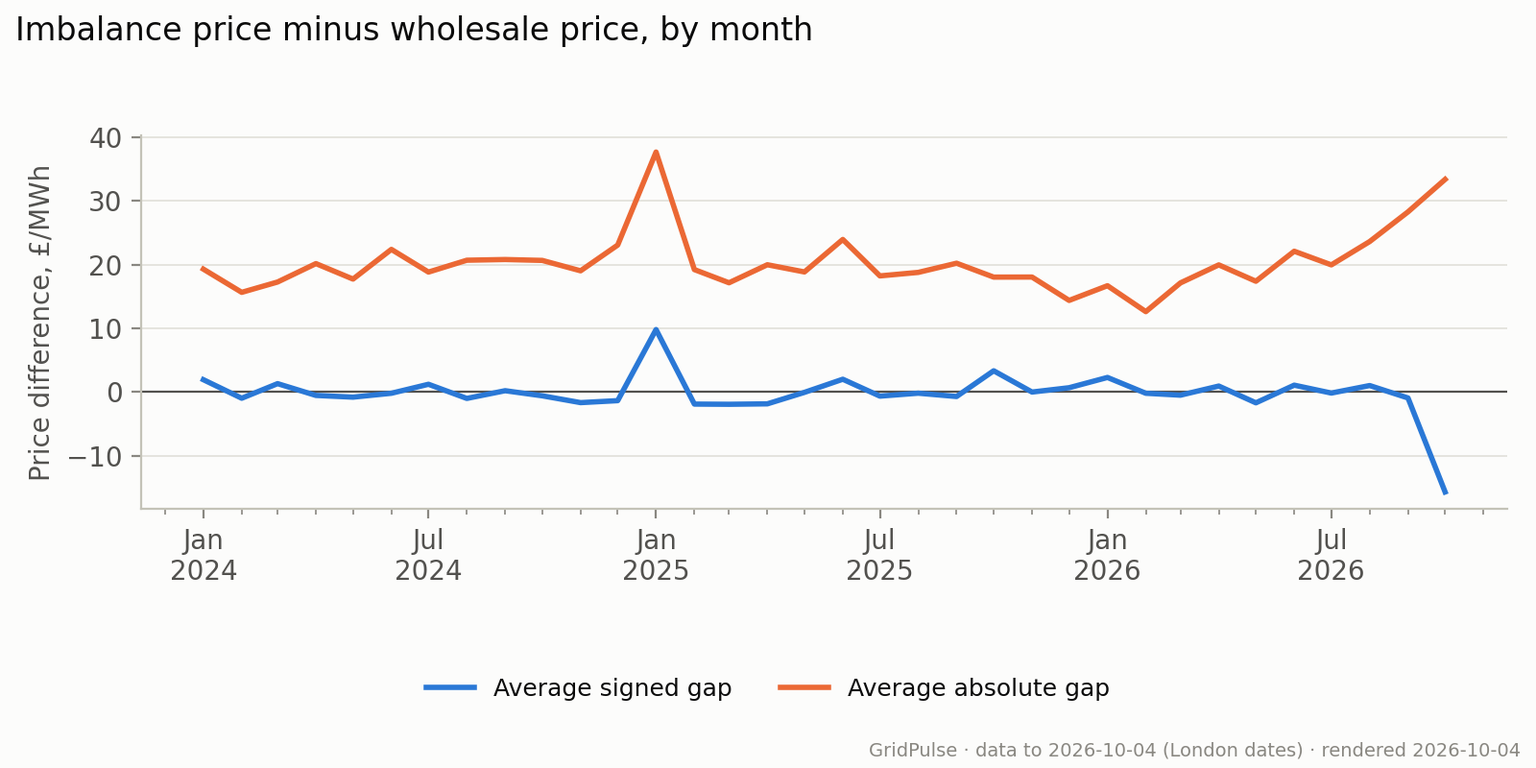
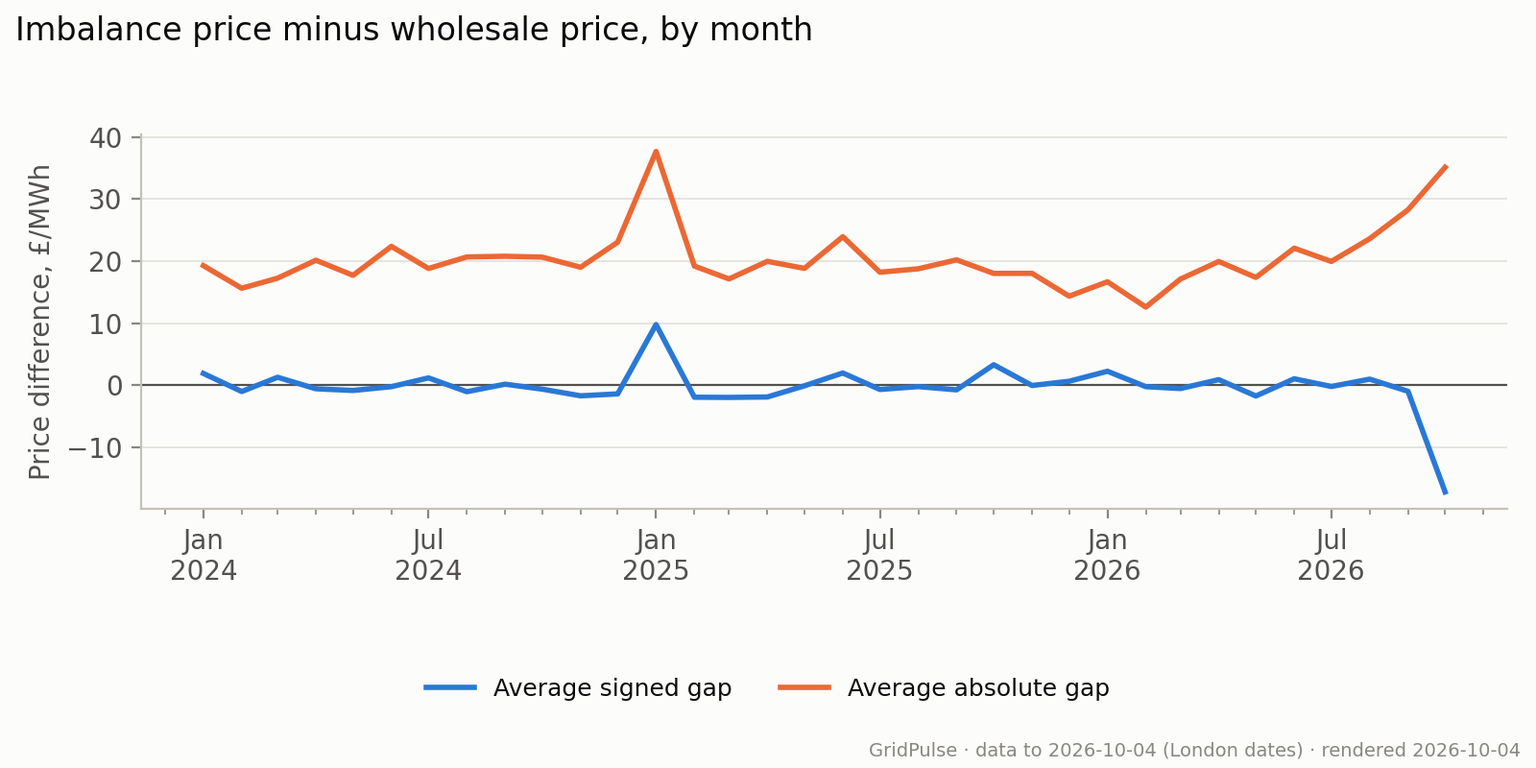
Rebuild from data to 2026-10-04, built 2026-10-04 08:50 UTC

diff --git a/index.html b/index.html
@@ -59,7 +59,7 @@ how electricity flows across borders, and how accurately demand is forecast.</p>
 <section class="overview" aria-labelledby="key-findings">
 <h2 id="key-findings">Key findings · 4 October 2026</h2>
 <ul><li><a href="#daily_pattern">Average Carbon Intensity and Wholesale Price by Half Hour</a><p>Across the half-hourly averages, carbon intensity is lowest at 13:00 (108 gCO₂/kWh), while the APX wholesale price is lowest at 03:30 (£68.76/MWh). These are historical averages, not a prediction for any individual day.</p></li>
-<li><a href="#negative_frequency">Negative Wholesale Price Frequency</a><p>1,325 of 48,306 half hours with a recorded APX wholesale price since 2024 had a negative price (2.7%), peaking at 9.5% in August 2024.</p></li>
+<li><a href="#negative_frequency">Negative Wholesale Price Frequency</a><p>1,325 of 48,310 half hours with a recorded APX wholesale price since 2024 had a negative price (2.7%), peaking at 9.5% in August 2024.</p></li>
 <li><a href="#demand_accuracy">Average Demand Forecast Error by Hours Ahead</a><p>Elexon&#x27;s national demand forecast is off by an average of 506 MW 0.5 hours ahead and 655 MW 21 hours ahead, scored on the same 35,898 half hours at each forecast timing. Smaller errors indicate greater accuracy.</p></li></ul>
 </section>
 <details class="contents" open><summary>Explore 14 analyses by topic</summary>
@@ -68,12 +68,12 @@ how electricity flows across borders, and how accurately demand is forecast.</p>
 <div><a href="#prices"><strong>Prices and grid conditions</strong></a><ul><li><a href="#negative_frequency">Negative Wholesale Price Frequency</a></li><li><a href="#negative_conditions">Grid Conditions During Negative Prices</a></li><li><a href="#imbalance_spread">Imbalance and Wholesale Price Gap</a></li><li><a href="#imbalance_conditions">Imbalance Prices by Grid Conditions</a></li></ul></div>
 <div><a href="#forecast-accuracy"><strong>Forecast accuracy</strong></a><ul><li><a href="#demand_accuracy">Average Demand Forecast Error by Hours Ahead</a></li><li><a href="#carbon_accuracy">Carbon Forecast Error by Month</a></li></ul></div>
 <div><a href="#data-quality"><strong>Data quality</strong></a><ul><li><a href="#coverage">Monthly Data Coverage</a></li><li><a href="#publication_coverage">Demand Forecast Publication Coverage</a></li></ul></div></nav></details>
-<p class="banner" id="built" data-built="2026-10-04T02:50:15Z" data-ingested="2026-10-04T02:00:27Z">
-Analysis built 2026-10-04 02:50 UTC. Each chart uses its stated window;
+<p class="banner" id="built" data-built="2026-10-04T08:50:19Z" data-ingested="2026-10-04T08:00:31Z">
+Analysis built 2026-10-04 08:50 UTC. Each chart uses its stated window;
 current-month results are provisional. Scheduled refresh: every 6 hours.</p>
 <details class="provenance"><summary>Data dates and source code</summary>
 <p class="meta">National carbon actuals: data to 2026-10-04 (London dates).
-Most recent ingestion across sources: 2026-10-04 02:00 UTC.
+Most recent ingestion across sources: 2026-10-04 08:00 UTC.
 These timestamps do not establish completeness or freshness for every source.
 “As of” refers to the build date. Select a chart to view it full size.</p>
 <a href="https://github.com/thrkld/gridpulse">Python, SQL and dbt project on GitHub</a></details>
@@ -90,7 +90,7 @@ These timestamps do not establish completeness or freshness for every source.
 <h4>Limitations</h4>
 <p class="caveat">Averages combine seasons and years and do not measure daily coincidence of the cheapest and lowest-carbon periods. APX is a wholesale index, not a household tariff.</p>
 <details><summary>How to read this graph and methodology</summary><p>Each point averages the same London half-hour start time since January 2024, using matched carbon and price observations and excluding today and clock-change days. The upper panel measures grams of CO₂ per kilowatt-hour; lower values mean less carbon per unit of electricity. The lower panel measures the APX wholesale index in pounds per megawatt-hour. Markers identify a minimum in each profile. The panels use different vertical scales, so compare the timing of their peaks and troughs, not their heights.</p></details>
-<details><summary>Numbers behind the chart</summary><div class="table-scroll" tabindex="0" role="region" aria-label="Data for Average Carbon Intensity and Wholesale Price by Half Hour"><table><thead><tr><th>Local time</th><th>Carbon intensity gCO2/kWh</th><th>Market price GBP/MWh</th><th>Matched periods</th></tr></thead><tbody><tr><td>00:00</td><td>115.7</td><td>76.2</td><td>999</td></tr><tr><td>00:30</td><td>114.2</td><td>76.48</td><td>999</td></tr><tr><td>01:00</td><td>113.1</td><td>74.59</td><td>1000</td></tr><tr><td>01:30</td><td>112.5</td><td>73.07</td><td>1000</td></tr><tr><td>02:00</td><td>111.2</td><td>72.47</td><td>1000</td></tr><tr><td>02:30</td><td>110.9</td><td>70.6</td><td>1001</td></tr><tr><td>03:00</td><td>110.3</td><td>70.15</td><td>1000</td></tr><tr><td>03:30</td><td>111.7</td><td>68.76</td><td>1000</td></tr><tr><td>04:00</td><td>112.2</td><td>70.36</td><td>1000</td></tr><tr><td>04:30</td><td>116.7</td><td>69.48</td><td>1000</td></tr><tr><td>05:00</td><td>121.1</td><td>75.34</td><td>1000</td></tr><tr><td>05:30</td><td>128.8</td><td>76.59</td><td>1000</td></tr><tr><td>06:00</td><td>135.6</td><td>81.43</td><td>1001</td></tr><tr><td>06:30</td><td>137.9</td><td>87.46</td><td>1001</td></tr><tr><td>07:00</td><td>139</td><td>88.18</td><td>1001</td></tr><tr><td>07:30</td><td>136.2</td><td>94.25</td><td>1001</td></tr><tr><td>08:00</td><td>133.6</td><td>89.22</td><td>1000</td></tr><tr><td>08:30</td><td>129.5</td><td>90.21</td><td>1001</td></tr><tr><td>09:00</td><td>124.9</td><td>85.25</td><td>1000</td></tr><tr><td>09:30</td><td>120.6</td><td>82.98</td><td>1000</td></tr><tr><td>10:00</td><td>116.4</td><td>81.16</td><td>1001</td></tr><tr><td>10:30</td><td>113.4</td><td>78.99</td><td>1001</td></tr><tr><td>11:00</td><td>111</td><td>74.38</td><td>999</td></tr><tr><td>11:30</td><td>109.4</td><td>73.18</td><td>1000</td></tr><tr><td>12:00</td><td>108.1</td><td>72.87</td><td>1001</td></tr><tr><td>12:30</td><td>108</td><td>71.88</td><td>1001</td></tr><tr><td>13:00</td><td>107.8</td><td>71.61</td><td>1000</td></tr><tr><td>13:30</td><td>109</td><td>70.12</td><td>1001</td></tr><tr><td>14:00</td><td>111</td><td>71.2</td><td>1001</td></tr><tr><td>14:30</td><td>113.8</td><td>70.88</td><td>1001</td></tr><tr><td>15:00</td><td>118.6</td><td>76.63</td><td>1001</td></tr><tr><td>15:30</td><td>124.3</td><td>79.47</td><td>1002</td></tr><tr><td>16:00</td><td>131.7</td><td>84.08</td><td>1002</td></tr><tr><td>16:30</td><td>139.3</td><td>90.41</td><td>1002</td></tr><tr><td>17:00</td><td>145.2</td><td>100.62</td><td>1002</td></tr><tr><td>17:30</td><td>150.2</td><td>104.2</td><td>1002</td></tr><tr><td>18:00</td><td>153.4</td><td>108.2</td><td>1002</td></tr><tr><td>18:30</td><td>155.5</td><td>109.31</td><td>1002</td></tr><tr><td>19:00</td><td>156.2</td><td>107.58</td><td>1002</td></tr><tr><td>19:30</td><td>155.8</td><td>105.72</td><td>1002</td></tr><tr><td>20:00</td><td>153.5</td><td>103.23</td><td>1002</td></tr><tr><td>20:30</td><td>150.6</td><td>100.12</td><td>1002</td></tr><tr><td>21:00</td><td>145.3</td><td>96.74</td><td>1002</td></tr><tr><td>21:30</td><td>140.2</td><td>92.02</td><td>1002</td></tr><tr><td>22:00</td><td>132.6</td><td>89.95</td><td>1001</td></tr><tr><td>22:30</td><td>122.8</td><td>84.55</td><td>1001</td></tr><tr><td>23:00</td><td>117.6</td><td>80.05</td><td>999</td></tr><tr><td>23:30</td><td>116.2</td><td>77.55</td><td>999</td></tr></tbody></table></div></details>
+<details><summary>Numbers behind the chart</summary><div class="table-scroll" tabindex="0" role="region" aria-label="Data for Average Carbon Intensity and Wholesale Price by Half Hour"><table><thead><tr><th>Local time</th><th>Carbon intensity gCO2/kWh</th><th>Market price GBP/MWh</th><th>Matched periods</th></tr></thead><tbody><tr><td>00:00</td><td>115.7</td><td>76.2</td><td>999</td></tr><tr><td>00:30</td><td>114.2</td><td>76.48</td><td>999</td></tr><tr><td>01:00</td><td>113.1</td><td>74.59</td><td>1000</td></tr><tr><td>01:30</td><td>112.5</td><td>73.07</td><td>1000</td></tr><tr><td>02:00</td><td>111.2</td><td>72.47</td><td>1000</td></tr><tr><td>02:30</td><td>110.9</td><td>70.6</td><td>1001</td></tr><tr><td>03:00</td><td>110.3</td><td>70.15</td><td>1000</td></tr><tr><td>03:30</td><td>111.7</td><td>68.76</td><td>1000</td></tr><tr><td>04:00</td><td>112.2</td><td>70.36</td><td>1000</td></tr><tr><td>04:30</td><td>116.7</td><td>69.48</td><td>1000</td></tr><tr><td>05:00</td><td>121.1</td><td>75.34</td><td>1000</td></tr><tr><td>05:30</td><td>128.8</td><td>76.59</td><td>1000</td></tr><tr><td>06:00</td><td>135.6</td><td>81.43</td><td>1001</td></tr><tr><td>06:30</td><td>137.9</td><td>87.46</td><td>1001</td></tr><tr><td>07:00</td><td>139</td><td>88.18</td><td>1001</td></tr><tr><td>07:30</td><td>136.2</td><td>94.25</td><td>1001</td></tr><tr><td>08:00</td><td>133.6</td><td>89.22</td><td>1000</td></tr><tr><td>08:30</td><td>129.5</td><td>90.21</td><td>1001</td></tr><tr><td>09:00</td><td>124.9</td><td>85.25</td><td>1000</td></tr><tr><td>09:30</td><td>120.6</td><td>82.98</td><td>1000</td></tr><tr><td>10:00</td><td>116.4</td><td>81.16</td><td>1001</td></tr><tr><td>10:30</td><td>113.4</td><td>78.99</td><td>1001</td></tr><tr><td>11:00</td><td>111</td><td>74.38</td><td>999</td></tr><tr><td>11:30</td><td>109.4</td><td>73.18</td><td>1000</td></tr><tr><td>12:00</td><td>108.1</td><td>72.87</td><td>1001</td></tr><tr><td>12:30</td><td>108</td><td>71.88</td><td>1001</td></tr><tr><td>13:00</td><td>107.8</td><td>71.61</td><td>1000</td></tr><tr><td>13:30</td><td>109</td><td>70.12</td><td>1001</td></tr><tr><td>14:00</td><td>111</td><td>71.2</td><td>1001</td></tr><tr><td>14:30</td><td>113.8</td><td>70.88</td><td>1001</td></tr><tr><td>15:00</td><td>118.6</td><td>76.63</td><td>1001</td></tr><tr><td>15:30</td><td>124.3</td><td>79.47</td><td>1002</td></tr><tr><td>16:00</td><td>131.7</td><td>84.08</td><td>1002</td></tr><tr><td>16:30</td><td>139.3</td><td>90.41</td><td>1002</td></tr><tr><td>17:00</td><td>145.2</td><td>100.62</td><td>1002</td></tr><tr><td>17:30</td><td>150.2</td><td>104.2</td><td>1002</td></tr><tr><td>18:00</td><td>153.4</td><td>108.2</td><td>1002</td></tr><tr><td>18:30</td><td>155.5</td><td>109.31</td><td>1002</td></tr><tr><td>19:00</td><td>156.2</td><td>107.58</td><td>1002</td></tr><tr><td>19:30</td><td>155.8</td><td>105.72</td><td>1002</td></tr><tr><td>20:00</td><td>153.5</td><td>103.23</td><td>1002</td></tr><tr><td>20:30</td><td>150.6</td><td>100.12</td><td>1002</td></tr><tr><td>21:00</td><td>145.3</td><td>96.74</td><td>1002</td></tr><tr><td>21:30</td><td>140.2</td><td>92.02</td><td>1002</td></tr><tr><td>22:00</td><td>132.7</td><td>90.03</td><td>1002</td></tr><tr><td>22:30</td><td>122.9</td><td>84.62</td><td>1002</td></tr><tr><td>23:00</td><td>117.7</td><td>80.13</td><td>1000</td></tr><tr><td>23:30</td><td>116.3</td><td>77.64</td><td>1000</td></tr></tbody></table></div></details>
 </section>
 <section class="chart" id="daily_minima">
 <h3 class="chart-title">Overlap of Cheap and Low-Carbon Periods</h3>
@@ -98,14 +98,14 @@ These timestamps do not establish completeness or freshness for every source.
 <p>The bar takes each day&#x27;s cheapest six hours (12 half-hour periods, not necessarily consecutive) and splits them into those that also fall in its lowest-carbon quarter and those that do not.</p>
 <div class="finding">
 <h4>Findings (as of 4 October 2026)</h4>
-<p>On average, 60.9% of each day&#x27;s cheapest quarter of half hours also belonged to its lowest-carbon quarter, across 991 complete days since 2024.</p>
+<p>On average, 60.9% of each day&#x27;s cheapest quarter of half hours also belonged to its lowest-carbon quarter, across 992 complete days since 2024.</p>
 </div>
 <a href="charts/daily_minima.png" aria-label="View full-size chart: Overlap of Cheap and Low-Carbon Periods"><img src="charts/daily_minima.png" alt="Overlap of Cheap and Low-Carbon Periods"></a>
 <p class="meta"><a href="charts/daily_minima.png">Open full-size chart</a></p>
 <h4>Limitations</h4>
 <p class="caveat">This describes historical overlap, not a schedule for future cheap or low-carbon electricity. Wholesale prices are not household tariffs.</p>
 <details><summary>How to read this graph and methodology</summary><p>Each complete 48-period day since January 2024 contributes equally. The cheapest quarter and lowest-carbon quarter each contain 12 half hours, equivalent to six hours but not necessarily consecutive. Ties at the cutoff share weight equally. Green shows the average overlap; grey shows the remainder. Days with missing prices or carbon observations and clock-change days are excluded. This answers a day-by-day question that the average daily profiles cannot answer.</p></details>
-<details><summary>Numbers behind the chart</summary><div class="table-scroll" tabindex="0" role="region" aria-label="Data for Overlap of Cheap and Low-Carbon Periods"><table><thead><tr><th>Periods</th><th>Also greenest %</th><th>Outside greenest %</th><th>Complete days</th></tr></thead><tbody><tr><td>Cheapest quarter</td><td>60.9</td><td>39.1</td><td>991</td></tr></tbody></table></div></details>
+<details><summary>Numbers behind the chart</summary><div class="table-scroll" tabindex="0" role="region" aria-label="Data for Overlap of Cheap and Low-Carbon Periods"><table><thead><tr><th>Periods</th><th>Also greenest %</th><th>Outside greenest %</th><th>Complete days</th></tr></thead><tbody><tr><td>Cheapest quarter</td><td>60.9</td><td>39.1</td><td>992</td></tr></tbody></table></div></details>
 </section>
 <h2 class="topic-heading" id="supply-trade">Electricity supply and trade</h2><section class="chart" id="solar">
 <h3 class="chart-title">Midday National Demand and Embedded Solar</h3>
@@ -173,14 +173,14 @@ These timestamps do not establish completeness or freshness for every source.
 <p>Each bar shows the percentage of priced half hours in a month when the APX wholesale electricity price was below £0/MWh. This measures how often negative prices occurred, not how far prices fell.</p>
 <div class="finding">
 <h4>Findings (as of 4 October 2026)</h4>
-<p>1,325 of 48,306 half hours with a recorded APX wholesale price since 2024 had a negative price (2.7%), peaking at 9.5% in August 2024.</p>
+<p>1,325 of 48,310 half hours with a recorded APX wholesale price since 2024 had a negative price (2.7%), peaking at 9.5% in August 2024.</p>
 </div>
 <a href="charts/negative_frequency.png" aria-label="View full-size chart: Negative Wholesale Price Frequency"><img src="charts/negative_frequency.png" alt="Negative Wholesale Price Frequency"></a>
 <p class="meta"><a href="charts/negative_frequency.png">Open full-size chart</a></p>
 <h4>Limitations</h4>
 <p class="caveat">Missing prices are excluded, not treated as zero or non-negative. The current month is partial. Negative wholesale prices do not imply negative household bills.</p>
 <details><summary>How to read this graph and methodology</summary><p>For each month since January 2024, the number of negative-price half hours is divided by the number with a recorded price and multiplied by 100. A 5% bar means one in twenty priced half hours was negative. A recorded price of zero is included in the denominator but is not negative. The overall finding uses the combined counts across months, rather than averaging the bars. The tallest bar identifies the highest monthly frequency; a light-blue bar marks the current, incomplete month.</p></details>
-<details><summary>Numbers behind the chart</summary><div class="table-scroll" tabindex="0" role="region" aria-label="Data for Negative Wholesale Price Frequency"><table><thead><tr><th>Month</th><th>Negative periods</th><th>Priced periods</th><th>Unpriced periods</th><th>Negative price %</th></tr></thead><tbody><tr><td>2024-01-01</td><td>11</td><td>1488</td><td>0</td><td>0.74</td></tr><tr><td>2024-02-01</td><td>13</td><td>1392</td><td>0</td><td>0.93</td></tr><tr><td>2024-03-01</td><td>37</td><td>1486</td><td>0</td><td>2.49</td></tr><tr><td>2024-04-01</td><td>117</td><td>1439</td><td>1</td><td>8.13</td></tr><tr><td>2024-05-01</td><td>15</td><td>1488</td><td>0</td><td>1.01</td></tr><tr><td>2024-06-01</td><td>59</td><td>1440</td><td>0</td><td>4.1</td></tr><tr><td>2024-07-01</td><td>21</td><td>1488</td><td>0</td><td>1.41</td></tr><tr><td>2024-08-01</td><td>141</td><td>1488</td><td>0</td><td>9.48</td></tr><tr><td>2024-09-01</td><td>36</td><td>1440</td><td>0</td><td>2.5</td></tr><tr><td>2024-10-01</td><td>17</td><td>1490</td><td>0</td><td>1.14</td></tr><tr><td>2024-11-01</td><td>5</td><td>1440</td><td>0</td><td>0.35</td></tr><tr><td>2024-12-01</td><td>23</td><td>1488</td><td>0</td><td>1.55</td></tr><tr><td>2025-01-01</td><td>6</td><td>1488</td><td>0</td><td>0.4</td></tr><tr><td>2025-02-01</td><td>0</td><td>1344</td><td>0</td><td>0</td></tr><tr><td>2025-03-01</td><td>25</td><td>1486</td><td>0</td><td>1.68</td></tr><tr><td>2025-04-01</td><td>49</td><td>1440</td><td>0</td><td>3.4</td></tr><tr><td>2025-05-01</td><td>73</td><td>1488</td><td>0</td><td>4.91</td></tr><tr><td>2025-06-01</td><td>114</td><td>1430</td><td>10</td><td>7.97</td></tr><tr><td>2025-07-01</td><td>25</td><td>1488</td><td>0</td><td>1.68</td></tr><tr><td>2025-08-01</td><td>64</td><td>1488</td><td>0</td><td>4.3</td></tr><tr><td>2025-09-01</td><td>102</td><td>1439</td><td>1</td><td>7.09</td></tr><tr><td>2025-10-01</td><td>29</td><td>1490</td><td>0</td><td>1.95</td></tr><tr><td>2025-11-01</td><td>0</td><td>1440</td><td>0</td><td>0</td></tr><tr><td>2025-12-01</td><td>1</td><td>1488</td><td>0</td><td>0.07</td></tr><tr><td>2026-01-01</td><td>0</td><td>1488</td><td>0</td><td>0</td></tr><tr><td>2026-02-01</td><td>4</td><td>1344</td><td>0</td><td>0.3</td></tr><tr><td>2026-03-01</td><td>39</td><td>1486</td><td>0</td><td>2.62</td></tr><tr><td>2026-04-01</td><td>80</td><td>1440</td><td>0</td><td>5.56</td></tr><tr><td>2026-05-01</td><td>0</td><td>1486</td><td>2</td><td>0</td></tr><tr><td>2026-06-01</td><td>64</td><td>1440</td><td>0</td><td>4.44</td></tr><tr><td>2026-07-01</td><td>76</td><td>1482</td><td>6</td><td>5.13</td></tr><tr><td>2026-08-01</td><td>10</td><td>1488</td><td>0</td><td>0.67</td></tr><tr><td>2026-09-01</td><td>69</td><td>1436</td><td>4</td><td>4.81</td></tr><tr><td>2026-10-01</td><td>0</td><td>140</td><td>4</td><td>0</td></tr></tbody></table></div></details>
+<details><summary>Numbers behind the chart</summary><div class="table-scroll" tabindex="0" role="region" aria-label="Data for Negative Wholesale Price Frequency"><table><thead><tr><th>Month</th><th>Negative periods</th><th>Priced periods</th><th>Unpriced periods</th><th>Negative price %</th></tr></thead><tbody><tr><td>2024-01-01</td><td>11</td><td>1488</td><td>0</td><td>0.74</td></tr><tr><td>2024-02-01</td><td>13</td><td>1392</td><td>0</td><td>0.93</td></tr><tr><td>2024-03-01</td><td>37</td><td>1486</td><td>0</td><td>2.49</td></tr><tr><td>2024-04-01</td><td>117</td><td>1439</td><td>1</td><td>8.13</td></tr><tr><td>2024-05-01</td><td>15</td><td>1488</td><td>0</td><td>1.01</td></tr><tr><td>2024-06-01</td><td>59</td><td>1440</td><td>0</td><td>4.1</td></tr><tr><td>2024-07-01</td><td>21</td><td>1488</td><td>0</td><td>1.41</td></tr><tr><td>2024-08-01</td><td>141</td><td>1488</td><td>0</td><td>9.48</td></tr><tr><td>2024-09-01</td><td>36</td><td>1440</td><td>0</td><td>2.5</td></tr><tr><td>2024-10-01</td><td>17</td><td>1490</td><td>0</td><td>1.14</td></tr><tr><td>2024-11-01</td><td>5</td><td>1440</td><td>0</td><td>0.35</td></tr><tr><td>2024-12-01</td><td>23</td><td>1488</td><td>0</td><td>1.55</td></tr><tr><td>2025-01-01</td><td>6</td><td>1488</td><td>0</td><td>0.4</td></tr><tr><td>2025-02-01</td><td>0</td><td>1344</td><td>0</td><td>0</td></tr><tr><td>2025-03-01</td><td>25</td><td>1486</td><td>0</td><td>1.68</td></tr><tr><td>2025-04-01</td><td>49</td><td>1440</td><td>0</td><td>3.4</td></tr><tr><td>2025-05-01</td><td>73</td><td>1488</td><td>0</td><td>4.91</td></tr><tr><td>2025-06-01</td><td>114</td><td>1430</td><td>10</td><td>7.97</td></tr><tr><td>2025-07-01</td><td>25</td><td>1488</td><td>0</td><td>1.68</td></tr><tr><td>2025-08-01</td><td>64</td><td>1488</td><td>0</td><td>4.3</td></tr><tr><td>2025-09-01</td><td>102</td><td>1439</td><td>1</td><td>7.09</td></tr><tr><td>2025-10-01</td><td>29</td><td>1490</td><td>0</td><td>1.95</td></tr><tr><td>2025-11-01</td><td>0</td><td>1440</td><td>0</td><td>0</td></tr><tr><td>2025-12-01</td><td>1</td><td>1488</td><td>0</td><td>0.07</td></tr><tr><td>2026-01-01</td><td>0</td><td>1488</td><td>0</td><td>0</td></tr><tr><td>2026-02-01</td><td>4</td><td>1344</td><td>0</td><td>0.3</td></tr><tr><td>2026-03-01</td><td>39</td><td>1486</td><td>0</td><td>2.62</td></tr><tr><td>2026-04-01</td><td>80</td><td>1440</td><td>0</td><td>5.56</td></tr><tr><td>2026-05-01</td><td>0</td><td>1486</td><td>2</td><td>0</td></tr><tr><td>2026-06-01</td><td>64</td><td>1440</td><td>0</td><td>4.44</td></tr><tr><td>2026-07-01</td><td>76</td><td>1482</td><td>6</td><td>5.13</td></tr><tr><td>2026-08-01</td><td>10</td><td>1488</td><td>0</td><td>0.67</td></tr><tr><td>2026-09-01</td><td>69</td><td>1436</td><td>4</td><td>4.81</td></tr><tr><td>2026-10-01</td><td>0</td><td>144</td><td>0</td><td>0</td></tr></tbody></table></div></details>
 </section>
 <section class="chart" id="negative_conditions">
 <h3 class="chart-title">Grid Conditions During Negative Prices</h3>
@@ -203,14 +203,14 @@ These timestamps do not establish completeness or freshness for every source.
 <p>The lines compare the imbalance settlement price, used to settle differences between contracted and actual electricity volumes, with the APX wholesale price index. Blue shows imbalance price minus wholesale price: above zero means imbalance prices were higher. Orange shows the average size of the gap, regardless of which price was higher.</p>
 <div class="finding">
 <h4>Findings (as of 4 October 2026)</h4>
-<p>Across 48,306 matched half hours since 2024, imbalance prices averaged £0.19/MWh above wholesale prices. The average absolute gap was £19.97/MWh; it measures the size of differences in either direction.</p>
+<p>Across 48,310 matched half hours since 2024, imbalance prices averaged £0.19/MWh above wholesale prices. The average absolute gap was £19.98/MWh; it measures the size of differences in either direction.</p>
 </div>
 <a href="charts/imbalance_spread.png" aria-label="View full-size chart: Imbalance and Wholesale Price Gap"><img src="charts/imbalance_spread.png" alt="Imbalance and Wholesale Price Gap"></a>
 <p class="meta"><a href="charts/imbalance_spread.png">Open full-size chart</a></p>
 <h4>Limitations</h4>
 <p class="caveat">The gap is not a participant&#x27;s realised trading profit or imbalance cost. Monthly means can conceal large individual price spikes. The current month is incomplete.</p>
 <details><summary>How to read this graph and methodology</summary><p>For each half hour with both prices since January 2024, subtract wholesale price from imbalance price. Average these differences within each month for the blue line: above zero means imbalance prices were higher. For the orange line, take the absolute value of each difference before averaging, so positive and negative gaps cannot cancel. The overall finding weights monthly means by their matched-period counts; minor rounding differences are possible. Prices are in pounds per megawatt-hour (£/MWh), and today is excluded.</p></details>
-<details><summary>Numbers behind the chart</summary><div class="table-scroll" tabindex="0" role="region" aria-label="Data for Imbalance and Wholesale Price Gap"><table><thead><tr><th>Month</th><th>Mean spread GBP/MWh</th><th>Mean absolute spread GBP/MWh</th><th>Matched periods</th></tr></thead><tbody><tr><td>2024-01-01</td><td>1.92</td><td>19.27</td><td>1488</td></tr><tr><td>2024-02-01</td><td>-0.99</td><td>15.63</td><td>1392</td></tr><tr><td>2024-03-01</td><td>1.3</td><td>17.25</td><td>1486</td></tr><tr><td>2024-04-01</td><td>-0.55</td><td>20.14</td><td>1439</td></tr><tr><td>2024-05-01</td><td>-0.82</td><td>17.71</td><td>1488</td></tr><tr><td>2024-06-01</td><td>-0.21</td><td>22.37</td><td>1440</td></tr><tr><td>2024-07-01</td><td>1.2</td><td>18.81</td><td>1488</td></tr><tr><td>2024-08-01</td><td>-1.02</td><td>20.67</td><td>1488</td></tr><tr><td>2024-09-01</td><td>0.19</td><td>20.78</td><td>1440</td></tr><tr><td>2024-10-01</td><td>-0.61</td><td>20.64</td><td>1490</td></tr><tr><td>2024-11-01</td><td>-1.68</td><td>19.01</td><td>1440</td></tr><tr><td>2024-12-01</td><td>-1.37</td><td>23.05</td><td>1488</td></tr><tr><td>2025-01-01</td><td>9.79</td><td>37.65</td><td>1488</td></tr><tr><td>2025-02-01</td><td>-1.91</td><td>19.2</td><td>1344</td></tr><tr><td>2025-03-01</td><td>-1.94</td><td>17.13</td><td>1486</td></tr><tr><td>2025-04-01</td><td>-1.87</td><td>19.96</td><td>1440</td></tr><tr><td>2025-05-01</td><td>-0.07</td><td>18.83</td><td>1488</td></tr><tr><td>2025-06-01</td><td>1.99</td><td>23.93</td><td>1430</td></tr><tr><td>2025-07-01</td><td>-0.66</td><td>18.21</td><td>1488</td></tr><tr><td>2025-08-01</td><td>-0.2</td><td>18.76</td><td>1488</td></tr><tr><td>2025-09-01</td><td>-0.72</td><td>20.2</td><td>1439</td></tr><tr><td>2025-10-01</td><td>3.32</td><td>18.02</td><td>1490</td></tr><tr><td>2025-11-01</td><td>-0.02</td><td>18.03</td><td>1440</td></tr><tr><td>2025-12-01</td><td>0.66</td><td>14.36</td><td>1488</td></tr><tr><td>2026-01-01</td><td>2.27</td><td>16.67</td><td>1488</td></tr><tr><td>2026-02-01</td><td>-0.21</td><td>12.6</td><td>1344</td></tr><tr><td>2026-03-01</td><td>-0.51</td><td>17.11</td><td>1486</td></tr><tr><td>2026-04-01</td><td>0.92</td><td>19.94</td><td>1440</td></tr><tr><td>2026-05-01</td><td>-1.71</td><td>17.37</td><td>1486</td></tr><tr><td>2026-06-01</td><td>1.06</td><td>22.08</td><td>1440</td></tr><tr><td>2026-07-01</td><td>-0.18</td><td>19.94</td><td>1482</td></tr><tr><td>2026-08-01</td><td>1</td><td>23.6</td><td>1488</td></tr><tr><td>2026-09-01</td><td>-0.95</td><td>28.26</td><td>1436</td></tr><tr><td>2026-10-01</td><td>-15.7</td><td>33.36</td><td>140</td></tr></tbody></table></div></details>
+<details><summary>Numbers behind the chart</summary><div class="table-scroll" tabindex="0" role="region" aria-label="Data for Imbalance and Wholesale Price Gap"><table><thead><tr><th>Month</th><th>Mean spread GBP/MWh</th><th>Mean absolute spread GBP/MWh</th><th>Matched periods</th></tr></thead><tbody><tr><td>2024-01-01</td><td>1.92</td><td>19.27</td><td>1488</td></tr><tr><td>2024-02-01</td><td>-0.99</td><td>15.63</td><td>1392</td></tr><tr><td>2024-03-01</td><td>1.3</td><td>17.25</td><td>1486</td></tr><tr><td>2024-04-01</td><td>-0.55</td><td>20.14</td><td>1439</td></tr><tr><td>2024-05-01</td><td>-0.82</td><td>17.71</td><td>1488</td></tr><tr><td>2024-06-01</td><td>-0.21</td><td>22.37</td><td>1440</td></tr><tr><td>2024-07-01</td><td>1.2</td><td>18.81</td><td>1488</td></tr><tr><td>2024-08-01</td><td>-1.02</td><td>20.67</td><td>1488</td></tr><tr><td>2024-09-01</td><td>0.19</td><td>20.78</td><td>1440</td></tr><tr><td>2024-10-01</td><td>-0.61</td><td>20.64</td><td>1490</td></tr><tr><td>2024-11-01</td><td>-1.68</td><td>19.01</td><td>1440</td></tr><tr><td>2024-12-01</td><td>-1.37</td><td>23.05</td><td>1488</td></tr><tr><td>2025-01-01</td><td>9.79</td><td>37.65</td><td>1488</td></tr><tr><td>2025-02-01</td><td>-1.91</td><td>19.2</td><td>1344</td></tr><tr><td>2025-03-01</td><td>-1.94</td><td>17.13</td><td>1486</td></tr><tr><td>2025-04-01</td><td>-1.87</td><td>19.96</td><td>1440</td></tr><tr><td>2025-05-01</td><td>-0.07</td><td>18.83</td><td>1488</td></tr><tr><td>2025-06-01</td><td>1.99</td><td>23.93</td><td>1430</td></tr><tr><td>2025-07-01</td><td>-0.66</td><td>18.21</td><td>1488</td></tr><tr><td>2025-08-01</td><td>-0.2</td><td>18.76</td><td>1488</td></tr><tr><td>2025-09-01</td><td>-0.72</td><td>20.2</td><td>1439</td></tr><tr><td>2025-10-01</td><td>3.32</td><td>18.02</td><td>1490</td></tr><tr><td>2025-11-01</td><td>-0.02</td><td>18.03</td><td>1440</td></tr><tr><td>2025-12-01</td><td>0.66</td><td>14.36</td><td>1488</td></tr><tr><td>2026-01-01</td><td>2.27</td><td>16.67</td><td>1488</td></tr><tr><td>2026-02-01</td><td>-0.21</td><td>12.6</td><td>1344</td></tr><tr><td>2026-03-01</td><td>-0.51</td><td>17.11</td><td>1486</td></tr><tr><td>2026-04-01</td><td>0.92</td><td>19.94</td><td>1440</td></tr><tr><td>2026-05-01</td><td>-1.71</td><td>17.37</td><td>1486</td></tr><tr><td>2026-06-01</td><td>1.06</td><td>22.08</td><td>1440</td></tr><tr><td>2026-07-01</td><td>-0.18</td><td>19.94</td><td>1482</td></tr><tr><td>2026-08-01</td><td>1</td><td>23.6</td><td>1488</td></tr><tr><td>2026-09-01</td><td>-0.95</td><td>28.26</td><td>1436</td></tr><tr><td>2026-10-01</td><td>-17.15</td><td>35.1</td><td>144</td></tr></tbody></table></div></details>
 </section>
 <section class="chart" id="imbalance_conditions">
 <h3 class="chart-title">Imbalance Prices by Grid Conditions</h3>
@@ -270,7 +270,7 @@ These timestamps do not establish completeness or freshness for every source.
 <h4>Limitations</h4>
 <p class="caveat">A present value may still be incorrect or later revised. High coverage of individual fields does not guarantee that all fields needed for a particular analysis are available together.</p>
 <details><summary>How to read this graph and methodology</summary><p>Expected periods come from the calendar table since January 2024, through yesterday, accounting for clock changes. Each cell divides the count with data by the expected count for its month. Carbon forecast pairs require both forecast and observed intensity. NESO settled demand additionally requires positive demand. Elexon demand observations are the national demand outturn used in the forecast evaluation. Coverage is separate from the counts of matched periods beneath the analytical charts.</p></details>
-<details><summary>Numbers behind the chart</summary><div class="table-scroll" tabindex="0" role="region" aria-label="Data for Monthly Data Coverage"><table><thead><tr><th>Month</th><th>Expected periods</th><th>Mart periods</th><th>Carbon actual periods</th><th>Carbon forecast pairs</th><th>Market price periods</th><th>Imbalance price periods</th><th>Settled NESO periods</th><th>INDO periods</th><th>Generation mix periods</th><th>Latest priced period UTC</th><th>Latest settled demand UTC</th></tr></thead><tbody><tr><td>2026-10-01</td><td>144</td><td>144</td><td>144</td><td>144</td><td>140</td><td>144</td><td>113</td><td>144</td><td>144</td><td>2026-10-03</td><td>2026-10-03</td></tr><tr><td>2026-09-01</td><td>1440</td><td>1440</td><td>1440</td><td>1440</td><td>1436</td><td>1440</td><td>1440</td><td>1440</td><td>1440</td><td>2026-09-30</td><td>2026-09-30</td></tr><tr><td>2026-08-01</td><td>1488</td><td>1488</td><td>1488</td><td>1488</td><td>1488</td><td>1488</td><td>1488</td><td>1488</td><td>1488</td><td>2026-08-31</td><td>2026-08-31</td></tr><tr><td>2026-07-01</td><td>1488</td><td>1488</td><td>1488</td><td>1488</td><td>1482</td><td>1488</td><td>1488</td><td>1488</td><td>1488</td><td>2026-07-31</td><td>2026-07-31</td></tr><tr><td>2026-06-01</td><td>1440</td><td>1440</td><td>1440</td><td>1440</td><td>1440</td><td>1440</td><td>1440</td><td>1440</td><td>1440</td><td>2026-06-30</td><td>2026-06-30</td></tr><tr><td>2026-05-01</td><td>1488</td><td>1488</td><td>1488</td><td>1488</td><td>1486</td><td>1488</td><td>1488</td><td>1488</td><td>1488</td><td>2026-05-31</td><td>2026-05-31</td></tr><tr><td>2026-04-01</td><td>1440</td><td>1440</td><td>1440</td><td>1440</td><td>1440</td><td>1440</td><td>1440</td><td>1440</td><td>1440</td><td>2026-04-30</td><td>2026-04-30</td></tr><tr><td>2026-03-01</td><td>1486</td><td>1486</td><td>1486</td><td>1486</td><td>1486</td><td>1486</td><td>1486</td><td>1486</td><td>1486</td><td>2026-03-31</td><td>2026-03-31</td></tr><tr><td>2026-02-01</td><td>1344</td><td>1344</td><td>1344</td><td>1344</td><td>1344</td><td>1344</td><td>1344</td><td>1344</td><td>1344</td><td>2026-02-28</td><td>2026-02-28</td></tr><tr><td>2026-01-01</td><td>1488</td><td>1488</td><td>1488</td><td>1488</td><td>1488</td><td>1488</td><td>1488</td><td>1488</td><td>1488</td><td>2026-01-31</td><td>2026-01-31</td></tr><tr><td>2025-12-01</td><td>1488</td><td>1488</td><td>1488</td><td>1488</td><td>1488</td><td>1488</td><td>1488</td><td>1488</td><td>1488</td><td>2025-12-31</td><td>2025-12-31</td></tr><tr><td>2025-11-01</td><td>1440</td><td>1440</td><td>1440</td><td>1440</td><td>1440</td><td>1440</td><td>1440</td><td>1440</td><td>1440</td><td>2025-11-30</td><td>2025-11-30</td></tr><tr><td>2025-10-01</td><td>1490</td><td>1490</td><td>1490</td><td>1490</td><td>1490</td><td>1490</td><td>1490</td><td>1490</td><td>1490</td><td>2025-10-31</td><td>2025-10-31</td></tr><tr><td>2025-09-01</td><td>1440</td><td>1440</td><td>1440</td><td>1440</td><td>1439</td><td>1440</td><td>1440</td><td>1440</td><td>1440</td><td>2025-09-30</td><td>2025-09-30</td></tr><tr><td>2025-08-01</td><td>1488</td><td>1488</td><td>1488</td><td>1471</td><td>1488</td><td>1488</td><td>1488</td><td>1488</td><td>1480</td><td>2025-08-31</td><td>2025-08-31</td></tr><tr><td>2025-07-01</td><td>1488</td><td>1488</td><td>1488</td><td>1488</td><td>1488</td><td>1488</td><td>1488</td><td>1488</td><td>1488</td><td>2025-07-31</td><td>2025-07-31</td></tr><tr><td>2025-06-01</td><td>1440</td><td>1440</td><td>1440</td><td>1440</td><td>1430</td><td>1440</td><td>1440</td><td>1440</td><td>1440</td><td>2025-06-30</td><td>2025-06-30</td></tr><tr><td>2025-05-01</td><td>1488</td><td>1488</td><td>1488</td><td>1488</td><td>1488</td><td>1488</td><td>1488</td><td>1488</td><td>1488</td><td>2025-05-31</td><td>2025-05-31</td></tr><tr><td>2025-04-01</td><td>1440</td><td>1440</td><td>1440</td><td>1440</td><td>1440</td><td>1440</td><td>1440</td><td>1440</td><td>1440</td><td>2025-04-30</td><td>2025-04-30</td></tr><tr><td>2025-03-01</td><td>1486</td><td>1486</td><td>1486</td><td>1486</td><td>1486</td><td>1486</td><td>1486</td><td>1486</td><td>1486</td><td>2025-03-31</td><td>2025-03-31</td></tr><tr><td>2025-02-01</td><td>1344</td><td>1344</td><td>1344</td><td>1344</td><td>1344</td><td>1344</td><td>1344</td><td>1344</td><td>1344</td><td>2025-02-28</td><td>2025-02-28</td></tr><tr><td>2025-01-01</td><td>1488</td><td>1488</td><td>1488</td><td>1462</td><td>1488</td><td>1488</td><td>1488</td><td>1488</td><td>1471</td><td>2025-01-31</td><td>2025-01-31</td></tr><tr><td>2024-12-01</td><td>1488</td><td>1488</td><td>1488</td><td>1488</td><td>1488</td><td>1488</td><td>1488</td><td>1488</td><td>1488</td><td>2024-12-31</td><td>2024-12-31</td></tr><tr><td>2024-11-01</td><td>1440</td><td>1440</td><td>1440</td><td>1440</td><td>1440</td><td>1440</td><td>1440</td><td>1440</td><td>1440</td><td>2024-11-30</td><td>2024-11-30</td></tr><tr><td>2024-10-01</td><td>1490</td><td>1490</td><td>1490</td><td>1490</td><td>1490</td><td>1490</td><td>1490</td><td>1490</td><td>1490</td><td>2024-10-31</td><td>2024-10-31</td></tr><tr><td>2024-09-01</td><td>1440</td><td>1440</td><td>1440</td><td>1440</td><td>1440</td><td>1440</td><td>1440</td><td>1440</td><td>1440</td><td>2024-09-30</td><td>2024-09-30</td></tr><tr><td>2024-08-01</td><td>1488</td><td>1488</td><td>1488</td><td>1488</td><td>1488</td><td>1488</td><td>1488</td><td>1488</td><td>1488</td><td>2024-08-31</td><td>2024-08-31</td></tr><tr><td>2024-07-01</td><td>1488</td><td>1488</td><td>1488</td><td>1488</td><td>1488</td><td>1488</td><td>1488</td><td>1488</td><td>1488</td><td>2024-07-31</td><td>2024-07-31</td></tr><tr><td>2024-06-01</td><td>1440</td><td>1440</td><td>1409</td><td>1409</td><td>1440</td><td>1440</td><td>1440</td><td>1440</td><td>1418</td><td>2024-06-30</td><td>2024-06-30</td></tr><tr><td>2024-05-01</td><td>1488</td><td>1488</td><td>1488</td><td>1488</td><td>1488</td><td>1488</td><td>1488</td><td>1488</td><td>1488</td><td>2024-05-31</td><td>2024-05-31</td></tr><tr><td>2024-04-01</td><td>1440</td><td>1440</td><td>1440</td><td>1440</td><td>1439</td><td>1440</td><td>1440</td><td>1440</td><td>1440</td><td>2024-04-30</td><td>2024-04-30</td></tr><tr><td>2024-03-01</td><td>1486</td><td>1486</td><td>1486</td><td>1486</td><td>1486</td><td>1486</td><td>1486</td><td>1486</td><td>1486</td><td>2024-03-31</td><td>2024-03-31</td></tr><tr><td>2024-02-01</td><td>1392</td><td>1392</td><td>1392</td><td>1392</td><td>1392</td><td>1392</td><td>1392</td><td>1392</td><td>1392</td><td>2024-02-29</td><td>2024-02-29</td></tr><tr><td>2024-01-01</td><td>1488</td><td>1488</td><td>1488</td><td>1488</td><td>1488</td><td>1488</td><td>1488</td><td>1488</td><td>1488</td><td>2024-01-31</td><td>2024-01-31</td></tr></tbody></table></div></details>
+<details><summary>Numbers behind the chart</summary><div class="table-scroll" tabindex="0" role="region" aria-label="Data for Monthly Data Coverage"><table><thead><tr><th>Month</th><th>Expected periods</th><th>Mart periods</th><th>Carbon actual periods</th><th>Carbon forecast pairs</th><th>Market price periods</th><th>Imbalance price periods</th><th>Settled NESO periods</th><th>INDO periods</th><th>Generation mix periods</th><th>Latest priced period UTC</th><th>Latest settled demand UTC</th></tr></thead><tbody><tr><td>2026-10-01</td><td>144</td><td>144</td><td>144</td><td>144</td><td>144</td><td>144</td><td>113</td><td>144</td><td>144</td><td>2026-10-03</td><td>2026-10-03</td></tr><tr><td>2026-09-01</td><td>1440</td><td>1440</td><td>1440</td><td>1440</td><td>1436</td><td>1440</td><td>1440</td><td>1440</td><td>1440</td><td>2026-09-30</td><td>2026-09-30</td></tr><tr><td>2026-08-01</td><td>1488</td><td>1488</td><td>1488</td><td>1488</td><td>1488</td><td>1488</td><td>1488</td><td>1488</td><td>1488</td><td>2026-08-31</td><td>2026-08-31</td></tr><tr><td>2026-07-01</td><td>1488</td><td>1488</td><td>1488</td><td>1488</td><td>1482</td><td>1488</td><td>1488</td><td>1488</td><td>1488</td><td>2026-07-31</td><td>2026-07-31</td></tr><tr><td>2026-06-01</td><td>1440</td><td>1440</td><td>1440</td><td>1440</td><td>1440</td><td>1440</td><td>1440</td><td>1440</td><td>1440</td><td>2026-06-30</td><td>2026-06-30</td></tr><tr><td>2026-05-01</td><td>1488</td><td>1488</td><td>1488</td><td>1488</td><td>1486</td><td>1488</td><td>1488</td><td>1488</td><td>1488</td><td>2026-05-31</td><td>2026-05-31</td></tr><tr><td>2026-04-01</td><td>1440</td><td>1440</td><td>1440</td><td>1440</td><td>1440</td><td>1440</td><td>1440</td><td>1440</td><td>1440</td><td>2026-04-30</td><td>2026-04-30</td></tr><tr><td>2026-03-01</td><td>1486</td><td>1486</td><td>1486</td><td>1486</td><td>1486</td><td>1486</td><td>1486</td><td>1486</td><td>1486</td><td>2026-03-31</td><td>2026-03-31</td></tr><tr><td>2026-02-01</td><td>1344</td><td>1344</td><td>1344</td><td>1344</td><td>1344</td><td>1344</td><td>1344</td><td>1344</td><td>1344</td><td>2026-02-28</td><td>2026-02-28</td></tr><tr><td>2026-01-01</td><td>1488</td><td>1488</td><td>1488</td><td>1488</td><td>1488</td><td>1488</td><td>1488</td><td>1488</td><td>1488</td><td>2026-01-31</td><td>2026-01-31</td></tr><tr><td>2025-12-01</td><td>1488</td><td>1488</td><td>1488</td><td>1488</td><td>1488</td><td>1488</td><td>1488</td><td>1488</td><td>1488</td><td>2025-12-31</td><td>2025-12-31</td></tr><tr><td>2025-11-01</td><td>1440</td><td>1440</td><td>1440</td><td>1440</td><td>1440</td><td>1440</td><td>1440</td><td>1440</td><td>1440</td><td>2025-11-30</td><td>2025-11-30</td></tr><tr><td>2025-10-01</td><td>1490</td><td>1490</td><td>1490</td><td>1490</td><td>1490</td><td>1490</td><td>1490</td><td>1490</td><td>1490</td><td>2025-10-31</td><td>2025-10-31</td></tr><tr><td>2025-09-01</td><td>1440</td><td>1440</td><td>1440</td><td>1440</td><td>1439</td><td>1440</td><td>1440</td><td>1440</td><td>1440</td><td>2025-09-30</td><td>2025-09-30</td></tr><tr><td>2025-08-01</td><td>1488</td><td>1488</td><td>1488</td><td>1471</td><td>1488</td><td>1488</td><td>1488</td><td>1488</td><td>1480</td><td>2025-08-31</td><td>2025-08-31</td></tr><tr><td>2025-07-01</td><td>1488</td><td>1488</td><td>1488</td><td>1488</td><td>1488</td><td>1488</td><td>1488</td><td>1488</td><td>1488</td><td>2025-07-31</td><td>2025-07-31</td></tr><tr><td>2025-06-01</td><td>1440</td><td>1440</td><td>1440</td><td>1440</td><td>1430</td><td>1440</td><td>1440</td><td>1440</td><td>1440</td><td>2025-06-30</td><td>2025-06-30</td></tr><tr><td>2025-05-01</td><td>1488</td><td>1488</td><td>1488</td><td>1488</td><td>1488</td><td>1488</td><td>1488</td><td>1488</td><td>1488</td><td>2025-05-31</td><td>2025-05-31</td></tr><tr><td>2025-04-01</td><td>1440</td><td>1440</td><td>1440</td><td>1440</td><td>1440</td><td>1440</td><td>1440</td><td>1440</td><td>1440</td><td>2025-04-30</td><td>2025-04-30</td></tr><tr><td>2025-03-01</td><td>1486</td><td>1486</td><td>1486</td><td>1486</td><td>1486</td><td>1486</td><td>1486</td><td>1486</td><td>1486</td><td>2025-03-31</td><td>2025-03-31</td></tr><tr><td>2025-02-01</td><td>1344</td><td>1344</td><td>1344</td><td>1344</td><td>1344</td><td>1344</td><td>1344</td><td>1344</td><td>1344</td><td>2025-02-28</td><td>2025-02-28</td></tr><tr><td>2025-01-01</td><td>1488</td><td>1488</td><td>1488</td><td>1462</td><td>1488</td><td>1488</td><td>1488</td><td>1488</td><td>1471</td><td>2025-01-31</td><td>2025-01-31</td></tr><tr><td>2024-12-01</td><td>1488</td><td>1488</td><td>1488</td><td>1488</td><td>1488</td><td>1488</td><td>1488</td><td>1488</td><td>1488</td><td>2024-12-31</td><td>2024-12-31</td></tr><tr><td>2024-11-01</td><td>1440</td><td>1440</td><td>1440</td><td>1440</td><td>1440</td><td>1440</td><td>1440</td><td>1440</td><td>1440</td><td>2024-11-30</td><td>2024-11-30</td></tr><tr><td>2024-10-01</td><td>1490</td><td>1490</td><td>1490</td><td>1490</td><td>1490</td><td>1490</td><td>1490</td><td>1490</td><td>1490</td><td>2024-10-31</td><td>2024-10-31</td></tr><tr><td>2024-09-01</td><td>1440</td><td>1440</td><td>1440</td><td>1440</td><td>1440</td><td>1440</td><td>1440</td><td>1440</td><td>1440</td><td>2024-09-30</td><td>2024-09-30</td></tr><tr><td>2024-08-01</td><td>1488</td><td>1488</td><td>1488</td><td>1488</td><td>1488</td><td>1488</td><td>1488</td><td>1488</td><td>1488</td><td>2024-08-31</td><td>2024-08-31</td></tr><tr><td>2024-07-01</td><td>1488</td><td>1488</td><td>1488</td><td>1488</td><td>1488</td><td>1488</td><td>1488</td><td>1488</td><td>1488</td><td>2024-07-31</td><td>2024-07-31</td></tr><tr><td>2024-06-01</td><td>1440</td><td>1440</td><td>1409</td><td>1409</td><td>1440</td><td>1440</td><td>1440</td><td>1440</td><td>1418</td><td>2024-06-30</td><td>2024-06-30</td></tr><tr><td>2024-05-01</td><td>1488</td><td>1488</td><td>1488</td><td>1488</td><td>1488</td><td>1488</td><td>1488</td><td>1488</td><td>1488</td><td>2024-05-31</td><td>2024-05-31</td></tr><tr><td>2024-04-01</td><td>1440</td><td>1440</td><td>1440</td><td>1440</td><td>1439</td><td>1440</td><td>1440</td><td>1440</td><td>1440</td><td>2024-04-30</td><td>2024-04-30</td></tr><tr><td>2024-03-01</td><td>1486</td><td>1486</td><td>1486</td><td>1486</td><td>1486</td><td>1486</td><td>1486</td><td>1486</td><td>1486</td><td>2024-03-31</td><td>2024-03-31</td></tr><tr><td>2024-02-01</td><td>1392</td><td>1392</td><td>1392</td><td>1392</td><td>1392</td><td>1392</td><td>1392</td><td>1392</td><td>1392</td><td>2024-02-29</td><td>2024-02-29</td></tr><tr><td>2024-01-01</td><td>1488</td><td>1488</td><td>1488</td><td>1488</td><td>1488</td><td>1488</td><td>1488</td><td>1488</td><td>1488</td><td>2024-01-31</td><td>2024-01-31</td></tr></tbody></table></div></details>
 </section>
 <section class="chart" id="publication_coverage">
 <h3 class="chart-title">Demand Forecast Publication Coverage</h3>
